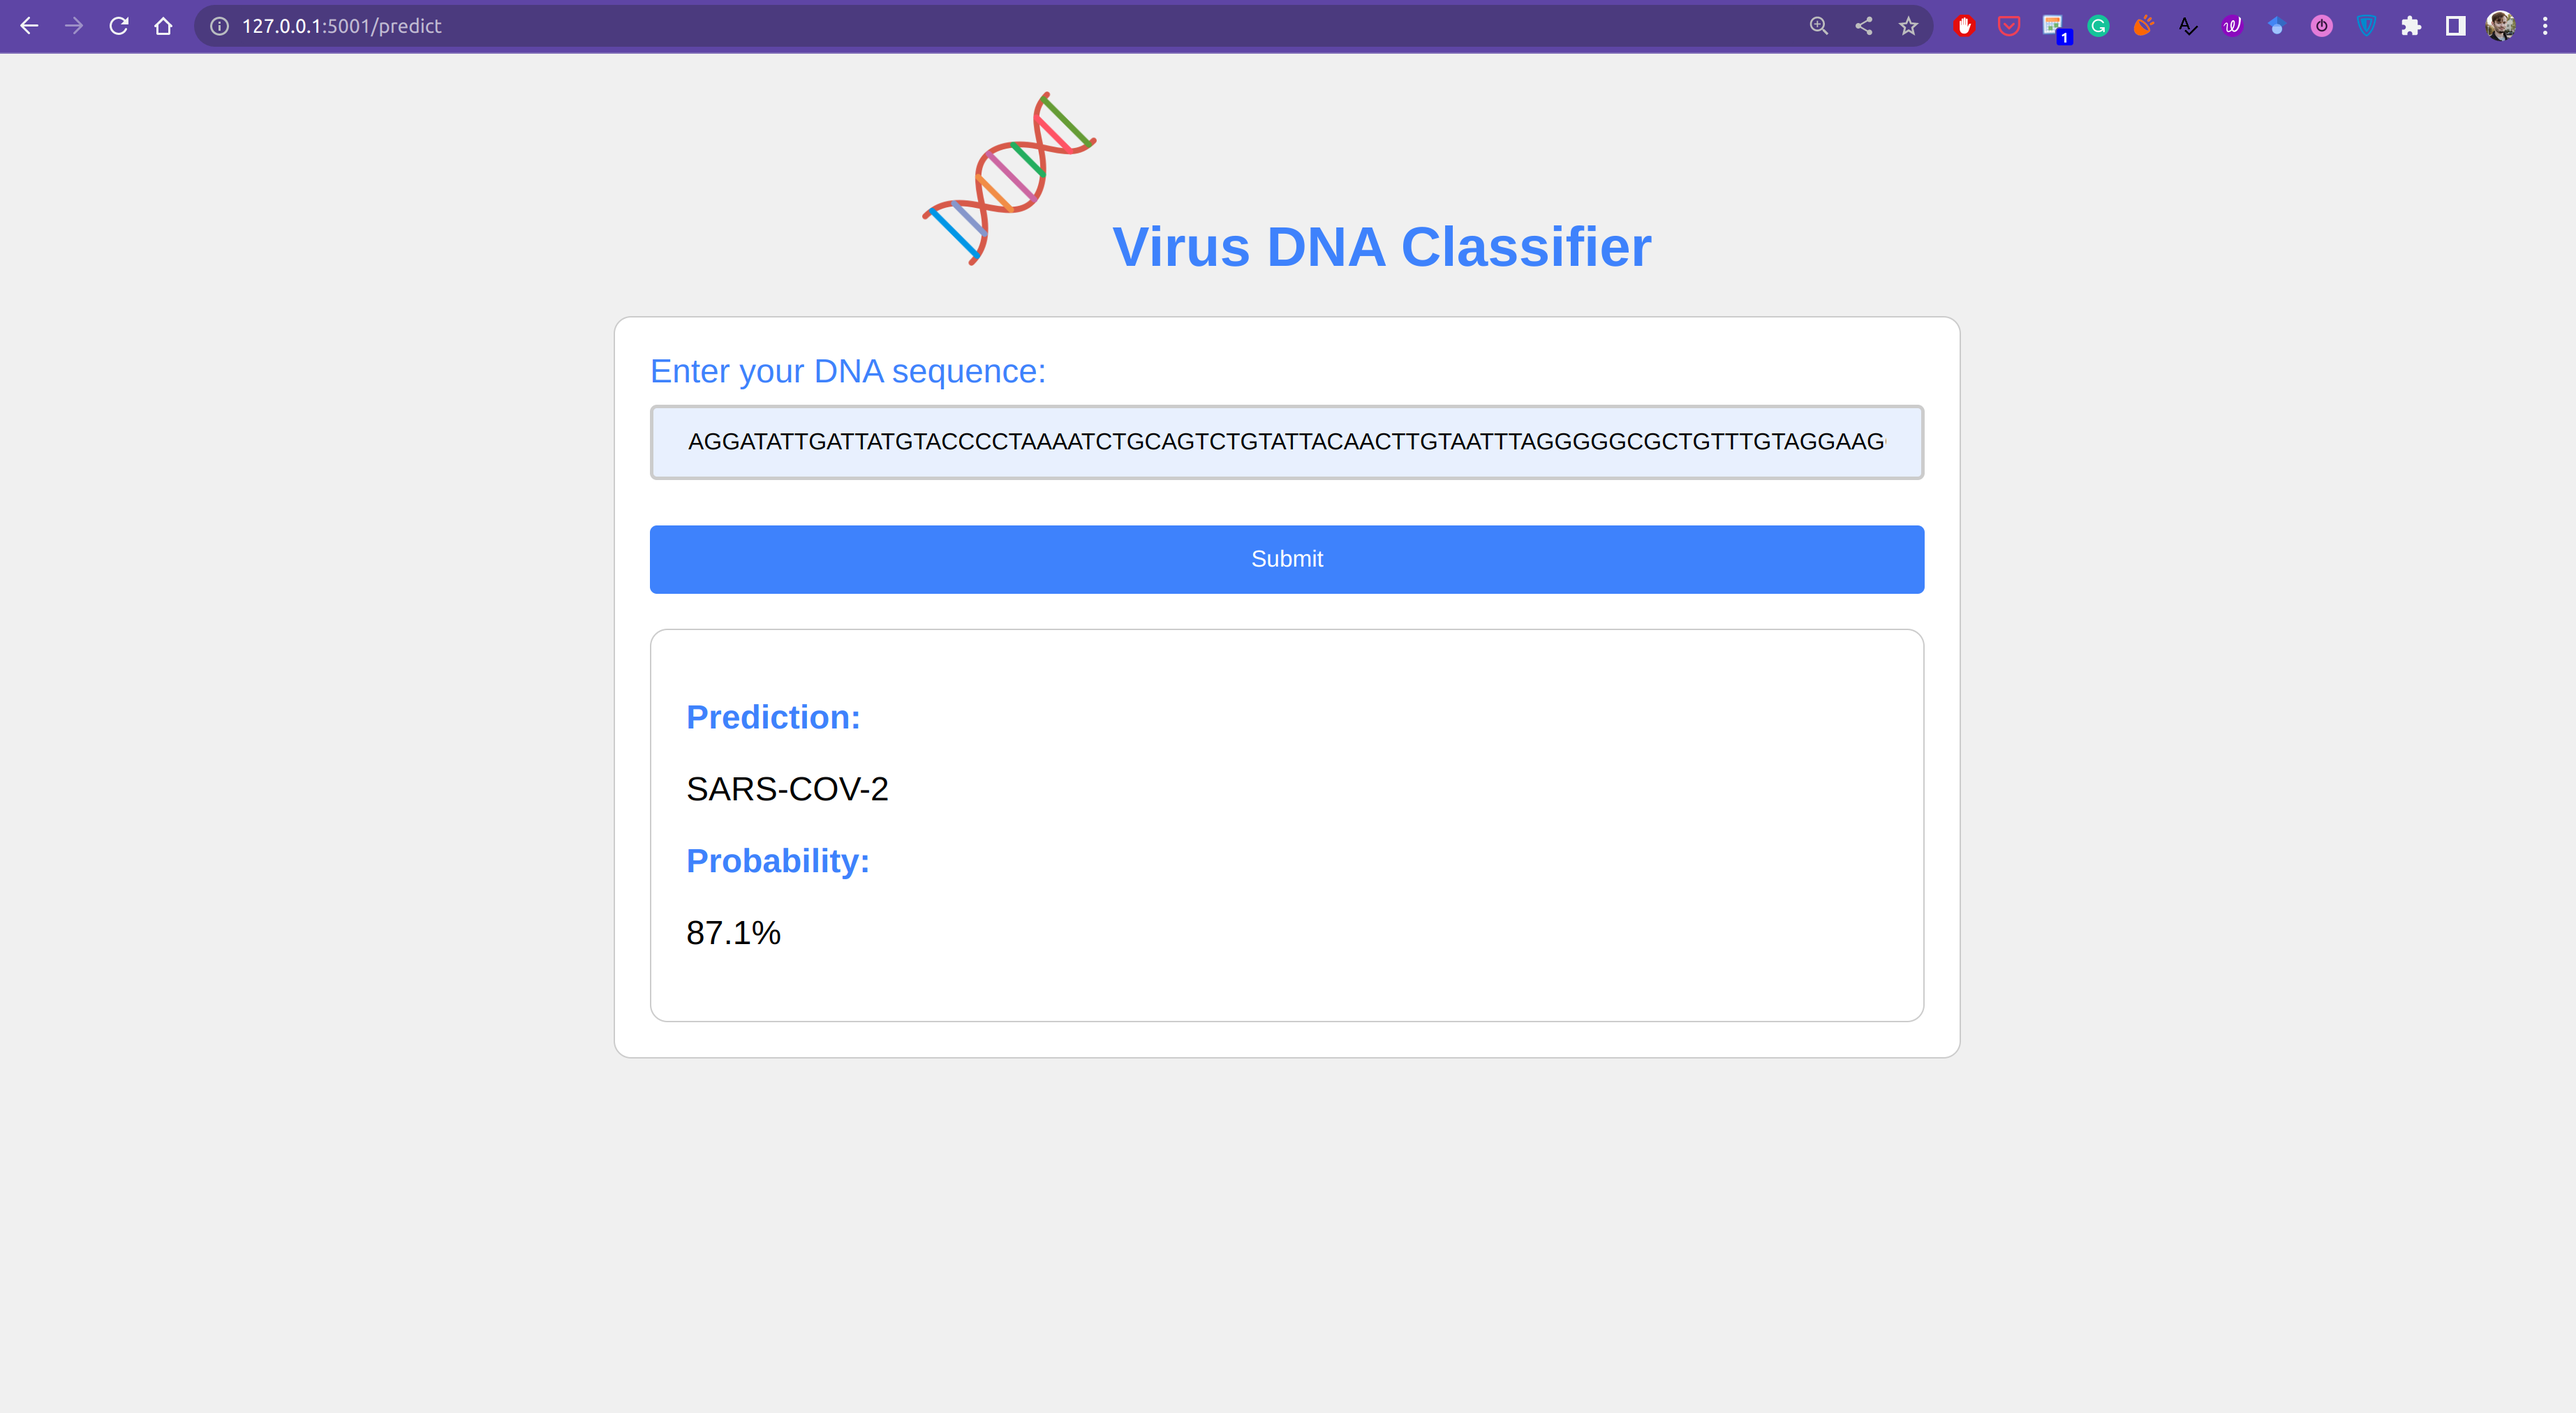
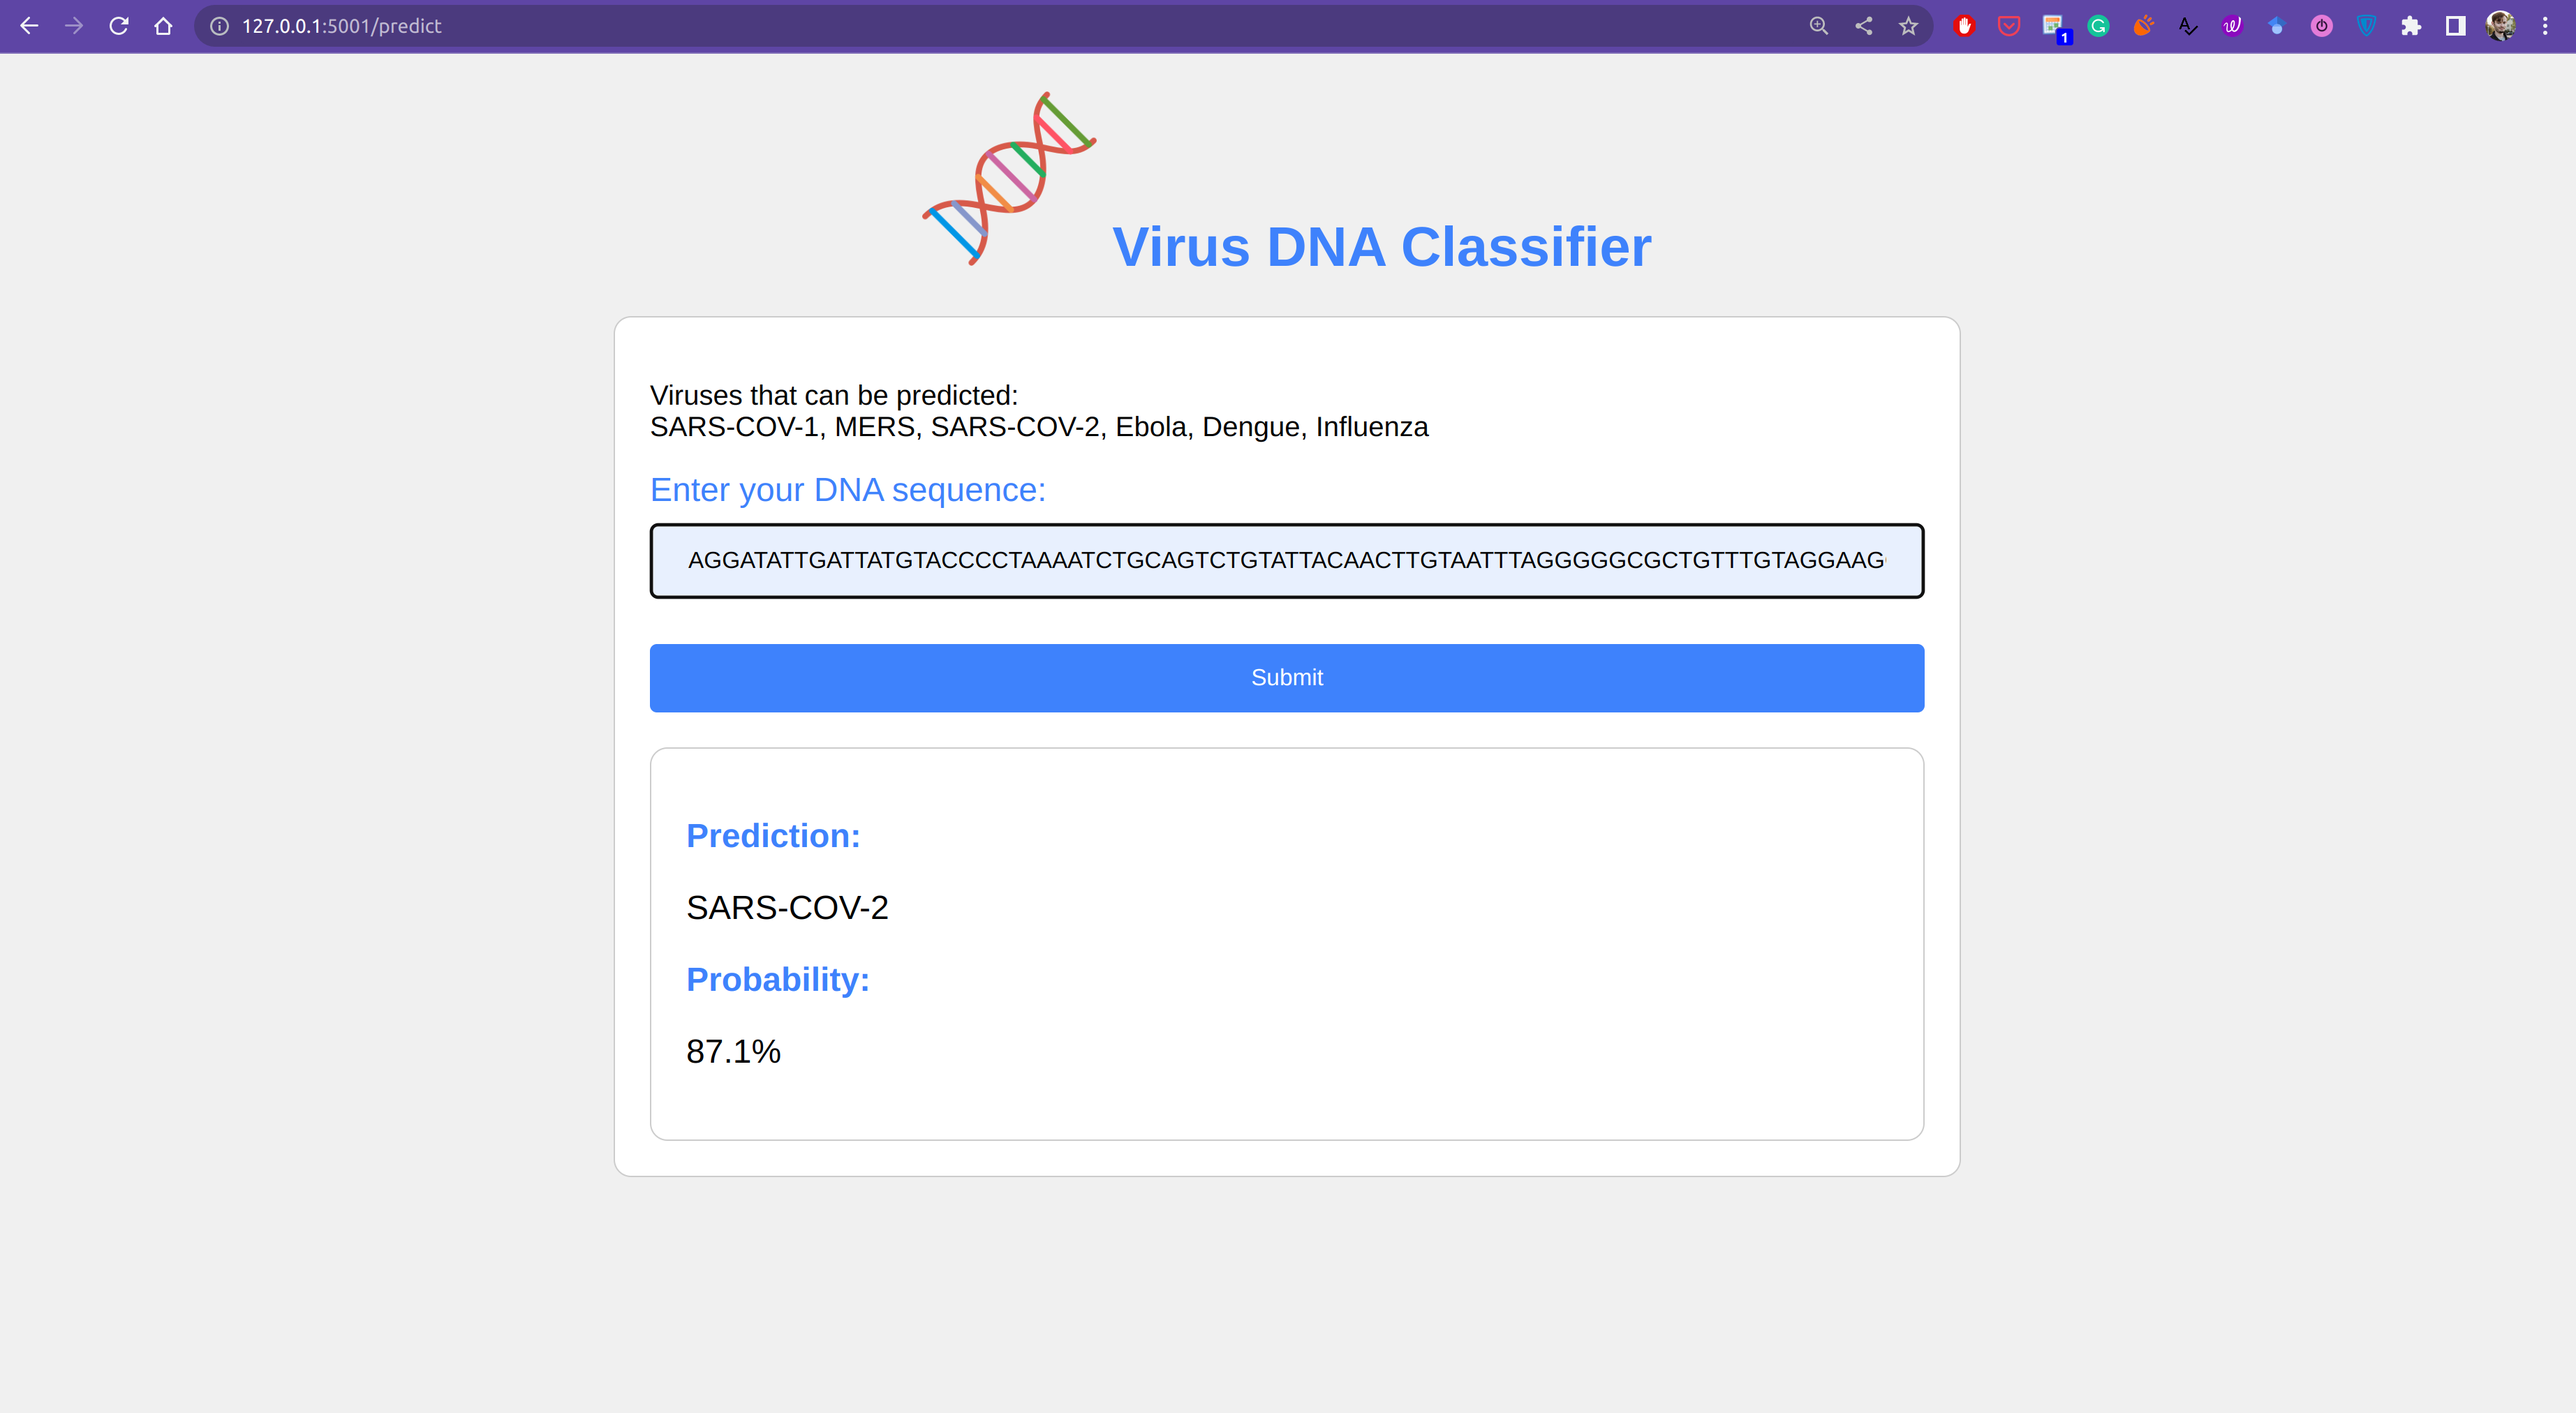
UI updated with a list of viruses

Changed region(s): [[0.2493, 0.2489, 0.748, 0.7467]]

diff --git a/templates/index.html b/templates/index.html
@@ -85,7 +85,17 @@
         Virus DNA Classifier
     </h1>
 
+    
+    
+
     <form action="{{ url_for('predict') }}" method="POST">
+        <div></div>
+        <p>
+            Viruses that can be predicted: <br>
+            SARS-COV-1, MERS, SARS-COV-2, Ebola, Dengue, Influenza
+        </p>
+    
+        </div>
         <label for="input_sequence">Enter your DNA sequence:</label><br>
         <input type="text" id="input_sequence" name="input_sequence"><br><br>
         <input type="submit" value="Submit">

diff --git a/app.py b/app.py
@@ -4,7 +4,7 @@
 
 import torch
 from utils.model_utils import load_model
-from utils.data_utils import return_kmer
+from utils.data_utils import return_kmer, is_dna_sequence
 from flask import Flask, render_template, request
 
 app = Flask(__name__, template_folder="templates")
@@ -43,6 +43,11 @@ def huggingface_predict(input):
     predicted_class : int
         The predicted class of the input sequence
     """
+    
+    # Check if the input sequence is a DNA sequence
+    if not is_dna_sequence(input):
+        return "Invalid Input. Please enter your sequence in upper case", 0
+
     kmer_seq = return_kmer(input, K=KMER)
 
     # Tokenize the input sequence

diff --git a/utils/data_utils.py b/utils/data_utils.py
@@ -116,3 +116,21 @@ def return_kmer(seq, K=3):
 
     kmer_seq = " ".join(kmer_list)
     return kmer_seq
+
+def is_dna_sequence(sequence):
+    """
+    This function checks if a sequence is a DNA sequence
+
+    Parameters
+    ----------
+    sequence : str
+        A sequence to be checked
+
+    Returns
+    -------
+    bool
+        True if the sequence is a DNA sequence, False otherwise
+    """
+
+    valid_bases = {'A', 'C', 'G', 'T'}
+    return all(base in valid_bases for base in sequence.upper())
